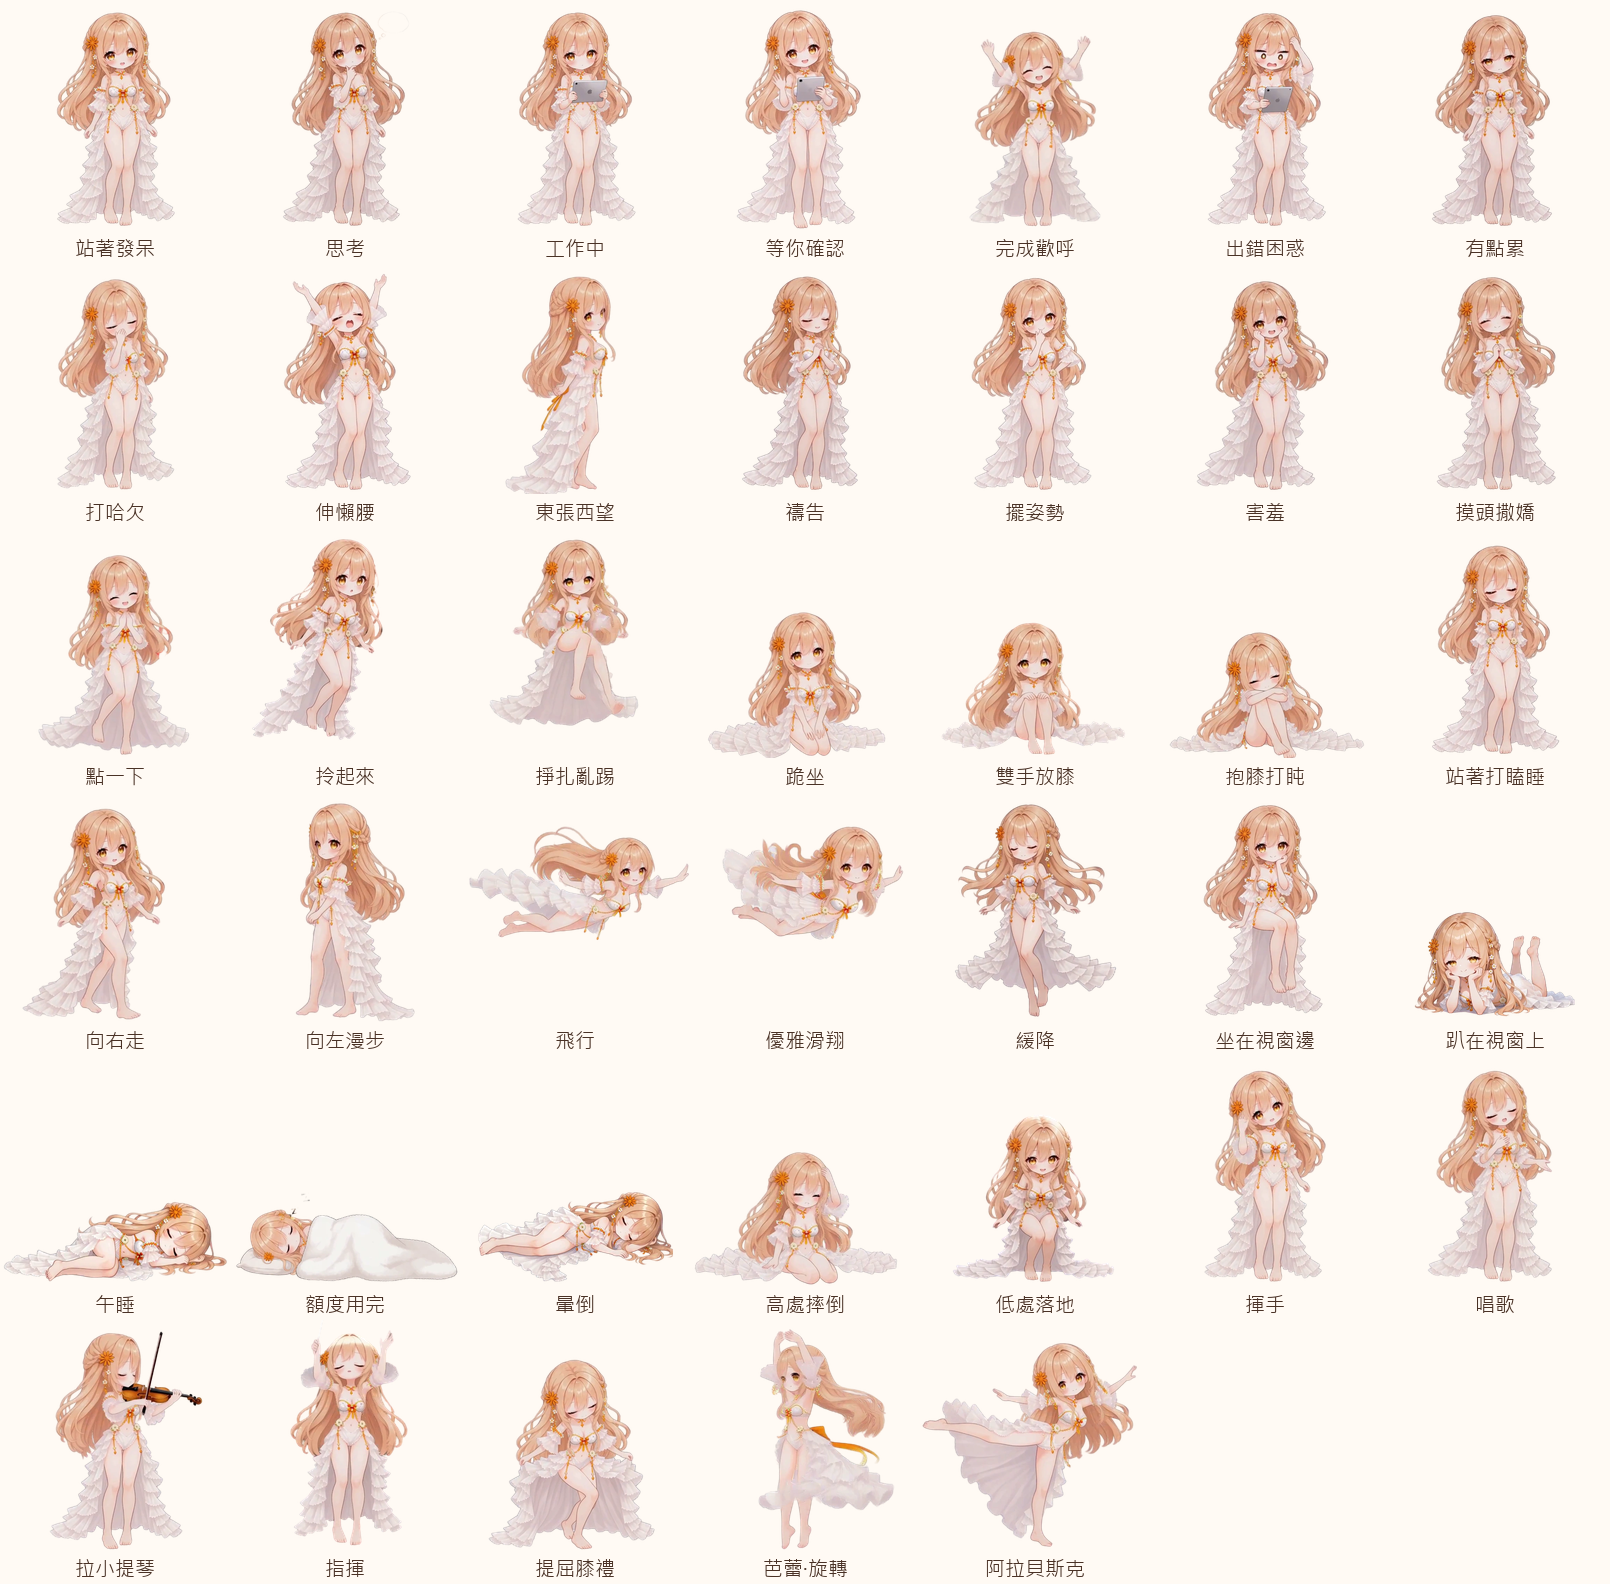
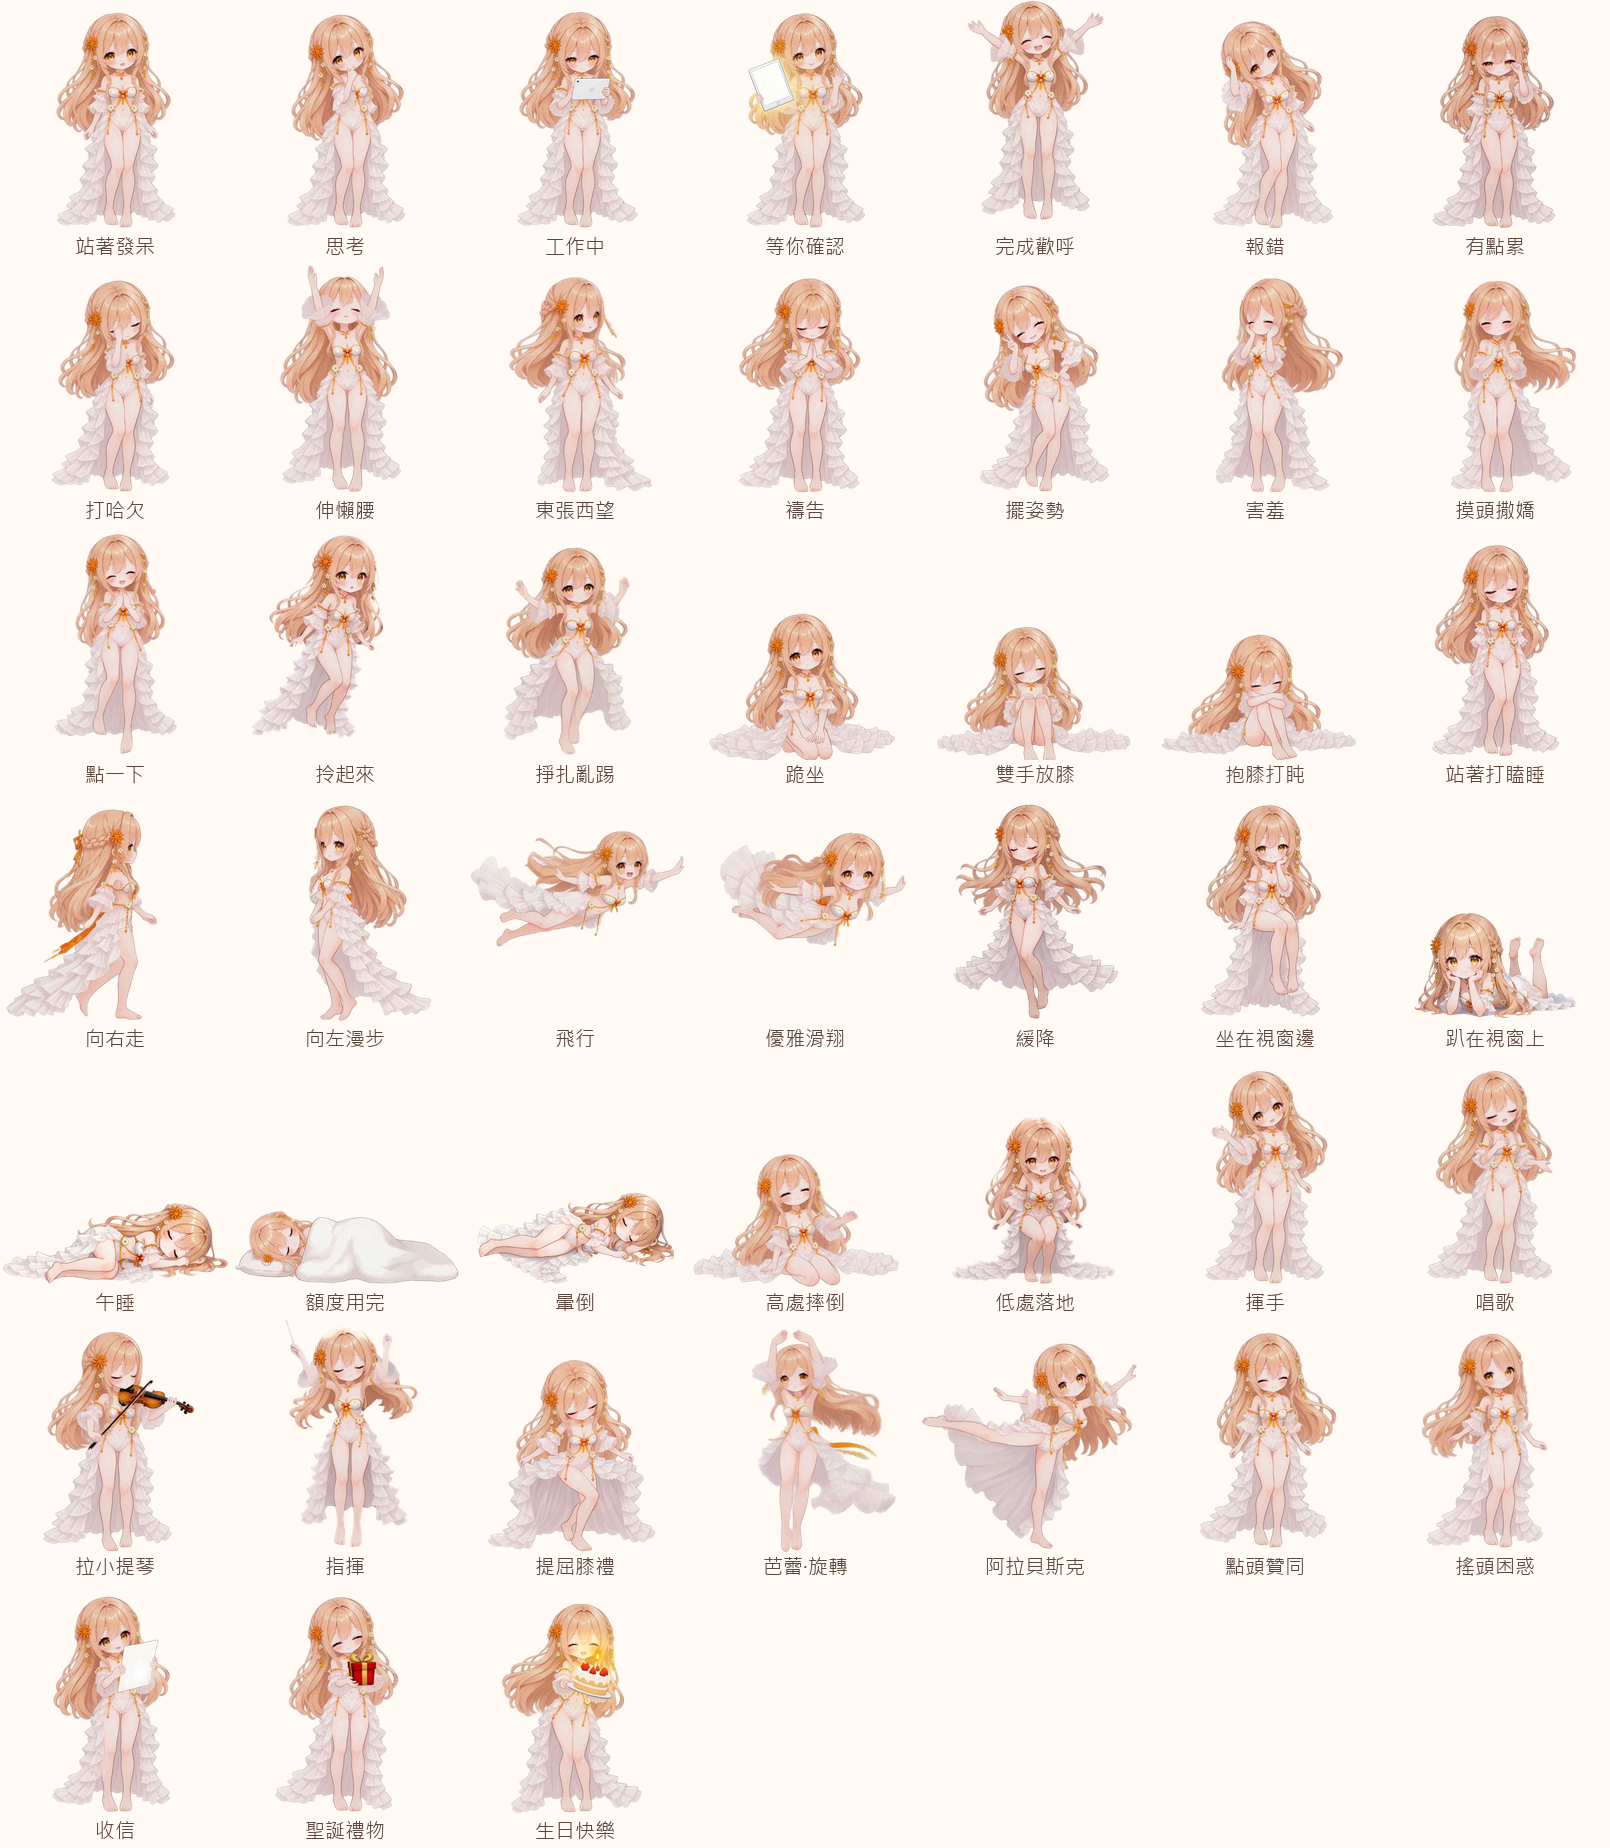
總覽圖換成 v0.8.3 的新動作（45 種，各挑一格），網頁替代文字一併更新

diff --git a/index.html b/index.html
@@ -44,7 +44,7 @@
 
   <section>
     <h2>各種狀態</h2>
-    <img class="wide" src="images/states.jpg" alt="撫子的 40 種狀態：站著發呆、思考、工作中、等你確認、完成歡呼、出錯困惑、有點累、打哈欠、伸懶腰、東張西望、禱告、擺姿勢、害羞、摸頭撒嬌、點一下、拎起來、掙扎亂踢、跪坐、雙手放膝、抱膝打盹、站著打瞌睡、向右走、向左漫步、飛行、優雅滑翔、緩降、坐在視窗邊、趴在視窗上、午睡、額度用完、暈倒、高處摔倒、低處落地、揮手、唱歌、拉小提琴、指揮、提屈膝禮、芭蕾·旋轉、阿拉貝斯克">
+    <img class="wide" src="images/states.jpg" alt="撫子的 45 種狀態：站著發呆、思考、工作中、等你確認、完成歡呼、報錯、有點累、打哈欠、伸懶腰、東張西望、禱告、擺姿勢、害羞、摸頭撒嬌、點一下、拎起來、掙扎亂踢、跪坐、雙手放膝、抱膝打盹、站著打瞌睡、向右走、向左漫步、飛行、優雅滑翔、緩降、坐在視窗邊、趴在視窗上、午睡、額度用完、暈倒、高處摔倒、低處落地、揮手、唱歌、拉小提琴、指揮、提屈膝禮、芭蕾·旋轉、阿拉貝斯克、點頭贊同、搖頭困惑、收信、聖誕禮物、生日快樂">
     <p class="muted" style="margin-top:10px">每一格都是桌寵實際在播的動畫畫面。</p>
   </section>
 
